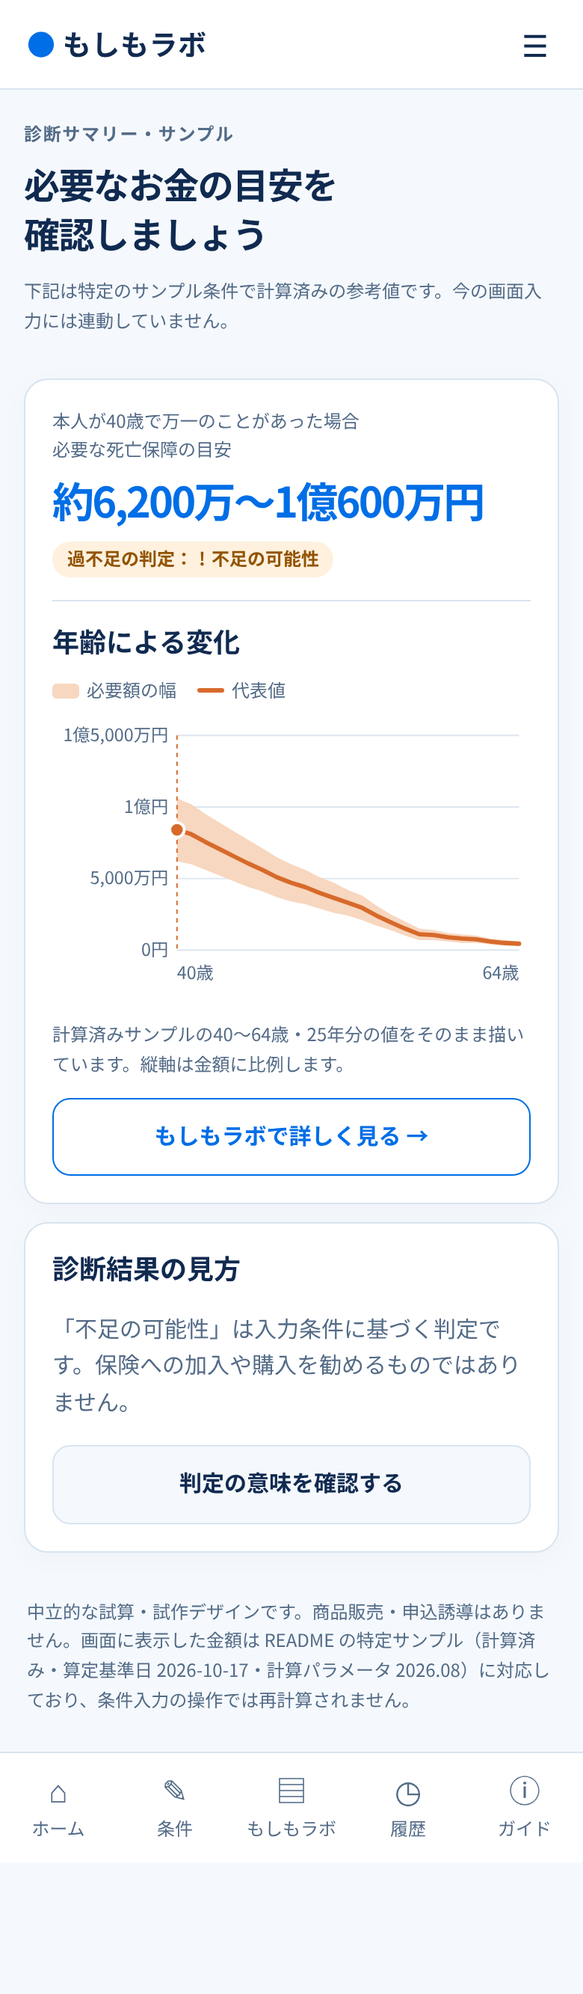
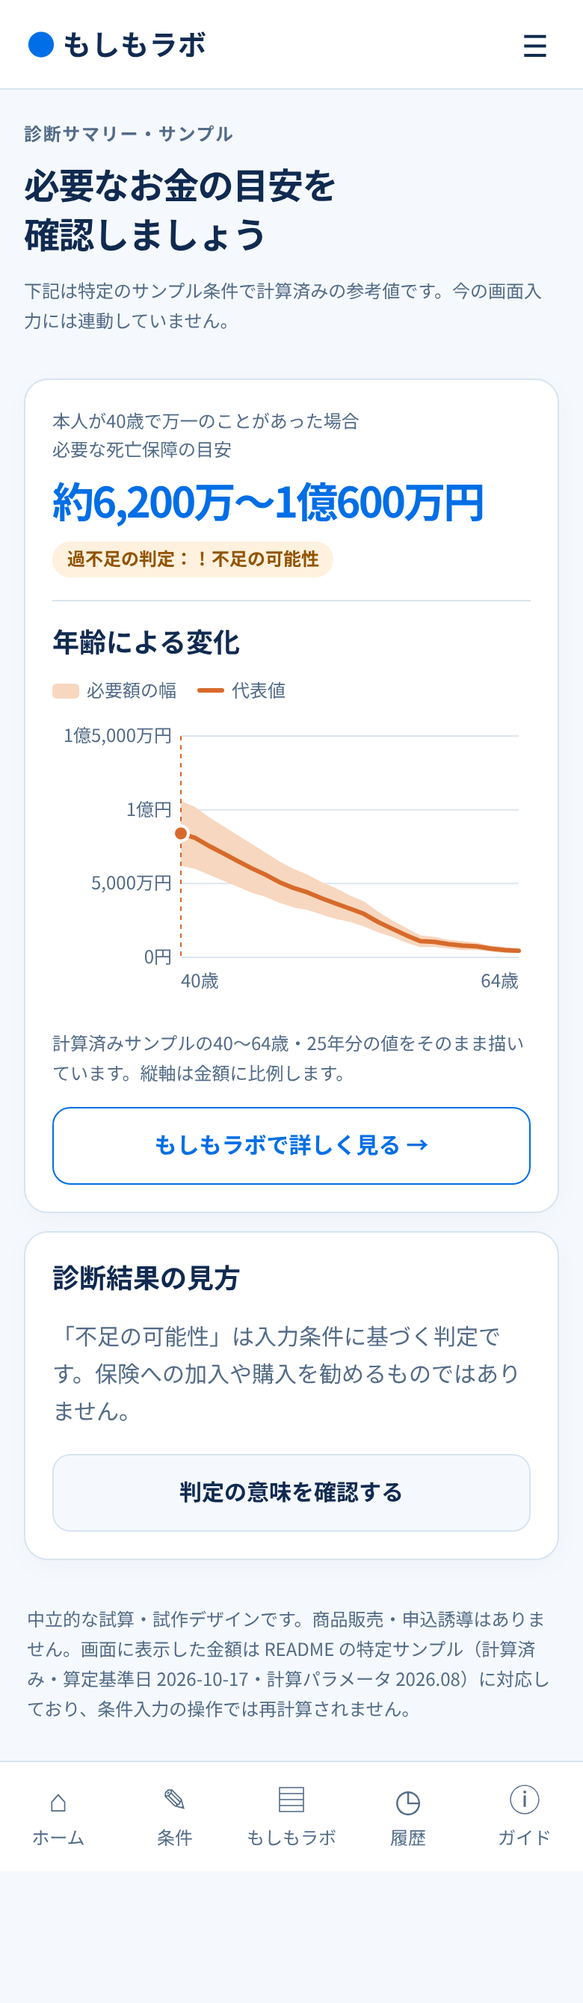
design: 320px でもグラフの目盛りを 12px にし、判断事項の回答を追記する
グラフを入れ物の実際の幅で描き、SVG を縮めない。幅が変わったら ResizeObserver で描き直す。

Claude-Session: https://claude.ai/code/session_01Fzmq9nUFPsWJRPivmmEeQQ

diff --git a/design/handoff/moshimo-lab-v2/index.html b/design/handoff/moshimo-lab-v2/index.html
@@ -32,12 +32,14 @@ function choose(el){el.parentElement.querySelectorAll('.choice').forEach(x=>{x.c
 const li=(t)=>`<li>${t}</li>`;
 function detail(id){const T=(t)=>document.getElementById(t);if(id==='death'){const p=SAMPLE.death.find(d=>d.age===currentAge);T('detailTitle').textContent='本人に万一のことがあった場合';T('detailLabel').textContent=`サンプル条件での試算結果（本人${p.age}歳・${p.year}年）`;T('detailAmount').innerHTML=rangeHtml(p.low,p.high);T('detailBadge').innerHTML=badge(p.verdict,'過不足の判定：');T('detailBody').innerHTML=`<p class="small">資産を差し引いた後の必要保障額です。病気や休職の費用とは算定対象が違うため、比べたり足したりしません。</p><div class="kv"><span>お子さんの年齢</span><b>${p.children.length?p.children.map(a=>a+'歳').join('・'):'お子さんなし'}</b></div><div class="kv"><span>いまの死亡保障</span><b>${SAMPLE.coverage?fmt(man(SAMPLE.coverage))+'円':'0円（サンプルの回答：加入なし）'}</b></div><details><summary>計算の前提を見る</summary><div class="details"><ul>${p.assumptions.map(li).join('')}${li('出典：'+SAMPLE.deathSource)}</ul></div></details>`}else if(id==='disability'){T('detailTitle').textContent=TITLE[id];T('detailLabel').textContent='必要額';T('detailAmount').textContent='未算定';T('detailBadge').innerHTML=badge('pending');T('detailBody').innerHTML=`<p class="small">障害年金を含めた算定は未対応で、必要額は出せません。0円という意味ではありません。</p><details><summary>算定の対応状況</summary><div class="details"><ul>${li('長期の収入減と本人の生活費が続くケースです。障害年金の受給条件を含めた算定に未対応です。')}</ul></div></details>`}else{const c=cases.find(x=>x.id===id),s=c.s;T('detailTitle').textContent=TITLE[id];T('detailLabel').textContent='サンプル条件での試算結果';T('detailAmount').textContent=c.value;T('detailBadge').innerHTML=badge(c.verdict,'貯蓄の判定：');T('detailBody').innerHTML=`<div class="kv"><span>働けない期間</span><b>${s.months}か月</b></div><div class="kv"><span>貯蓄の比較帯</span><b>${range(SAMPLE.savings.low,SAMPLE.savings.high)}</b></div><p class="small">上の金額は、医療費の自己負担・保険外の負担・収入の減少を、計算エンジンの前提で見積もった幅です。内訳の金額はエンジンが返していないため、ここでは作りません。</p><details><summary>計算の前提を見る（${s.assumptions.length}項目）</summary><div class="details"><ul>${s.assumptions.map(li).join('')}${li('出典：'+s.sources.join(' ／ '))}</ul></div></details>`}show('detail')}
 /* 金額に比例するグラフ。座標以外は元の試作の形・色を保つ */
-function makeChart(age){const pts=SAMPLE.death,W=330,H=196,L=86,R=322,T=12,B=160;const max=Math.ceil(Math.max(...pts.map(p=>p.high))/5e7)*5e7;const x=a=>L+(a-40)*(R-L)/24,y=v=>B-v*(B-T)/max;const ticks=[];for(let v=0;v<=max;v+=5e7)ticks.push(v);const up=pts.map(p=>`${x(p.age).toFixed(1)},${y(p.high).toFixed(1)}`),dn=pts.slice().reverse().map(p=>`${x(p.age).toFixed(1)},${y(p.low).toFixed(1)}`);const mid=pts.map((p,i)=>`${i?'L':'M'}${x(p.age).toFixed(1)} ${y(p.middle).toFixed(1)}`).join(' ');const cur=pts.find(p=>p.age===age),first=pts[0],last=pts[pts.length-1];return `<svg class="graph" role="img" aria-label="本人の年齢ごとの必要な死亡保障の幅。40歳で${range(first.low,first.high)}、64歳で${range(last.low,last.high)}。いま選んでいる${age}歳は${range(cur.low,cur.high)}。" viewBox="0 0 ${W} ${H}">${ticks.map(v=>`<line class="grid" x1="${L}" y1="${y(v)}" x2="${R}" y2="${y(v)}"/><text x="${L-6}" y="${y(v)+4}" text-anchor="end">${v?fmt(man(v))+'円':'0円'}</text>`).join('')}<polygon class="range" points="${up.concat(dn).join(' ')}"/><path class="curve" d="${mid}"/><line class="guide-line" x1="${x(age)}" y1="${T}" x2="${x(age)}" y2="${B}"/><circle class="dot" cx="${x(age)}" cy="${y(cur.middle)}" r="5"/><text x="${L}" y="${B+20}" text-anchor="start">40歳</text><text x="${R}" y="${B+20}" text-anchor="end">64歳</text>${age!==40&&age!==64?`<text x="${x(age)}" y="${B+20}" text-anchor="middle" style="font-weight:700;fill:#102A50">${age}歳</text>`:''}</svg>`}
+function makeChart(age,w){const pts=SAMPLE.death,W=Math.max(240,Math.round(w||330)),H=196,L=86,R=W-8,T=12,B=160;const max=Math.ceil(Math.max(...pts.map(p=>p.high))/5e7)*5e7;const x=a=>L+(a-40)*(R-L)/24,y=v=>B-v*(B-T)/max;const ticks=[];for(let v=0;v<=max;v+=5e7)ticks.push(v);const up=pts.map(p=>`${x(p.age).toFixed(1)},${y(p.high).toFixed(1)}`),dn=pts.slice().reverse().map(p=>`${x(p.age).toFixed(1)},${y(p.low).toFixed(1)}`);const mid=pts.map((p,i)=>`${i?'L':'M'}${x(p.age).toFixed(1)} ${y(p.middle).toFixed(1)}`).join(' ');const cur=pts.find(p=>p.age===age),first=pts[0],last=pts[pts.length-1];return `<svg class="graph" role="img" aria-label="本人の年齢ごとの必要な死亡保障の幅。40歳で${range(first.low,first.high)}、64歳で${range(last.low,last.high)}。いま選んでいる${age}歳は${range(cur.low,cur.high)}。" viewBox="0 0 ${W} ${H}">${ticks.map(v=>`<line class="grid" x1="${L}" y1="${y(v)}" x2="${R}" y2="${y(v)}"/><text x="${L-6}" y="${y(v)+4}" text-anchor="end">${v?fmt(man(v))+'円':'0円'}</text>`).join('')}<polygon class="range" points="${up.concat(dn).join(' ')}"/><path class="curve" d="${mid}"/><line class="guide-line" x1="${x(age)}" y1="${T}" x2="${x(age)}" y2="${B}"/><circle class="dot" cx="${x(age)}" cy="${y(cur.middle)}" r="5"/><text x="${L}" y="${B+20}" text-anchor="start">40歳</text><text x="${R}" y="${B+20}" text-anchor="end">64歳</text>${age!==40&&age!==64?`<text x="${x(age)}" y="${B+20}" text-anchor="middle" style="font-weight:700;fill:#102A50">${age}歳</text>`:''}</svg>`}
 let currentAge=40;
-function setAge(a){currentAge=a;const p=SAMPLE.death.find(d=>d.age===a);document.getElementById('ageout').textContent=a+'歳';document.getElementById('deathCaption').textContent=`本人の万一：${a}歳（${p.year}年）・計算済みサンプル`;document.getElementById('labAmount').innerHTML=rangeHtml(p.low,p.high);document.getElementById('labBadge').innerHTML=badge(p.verdict,'過不足の判定：');document.getElementById('labChart').innerHTML=makeChart(a);document.getElementById('ageSlider').setAttribute('aria-valuetext',`${a}歳、必要な死亡保障のめやす ${range(p.low,p.high)}`)}
-const p40=SAMPLE.death[0];document.getElementById('summaryAmount').innerHTML=rangeHtml(p40.low,p40.high);document.getElementById('summaryBadge').innerHTML=badge(p40.verdict,'過不足の判定：');document.getElementById('summaryChart').innerHTML=makeChart(40);
+function setAge(a){currentAge=a;const p=SAMPLE.death.find(d=>d.age===a);document.getElementById('ageout').textContent=a+'歳';document.getElementById('deathCaption').textContent=`本人の万一：${a}歳（${p.year}年）・計算済みサンプル`;document.getElementById('labAmount').innerHTML=rangeHtml(p.low,p.high);document.getElementById('labBadge').innerHTML=badge(p.verdict,'過不足の判定：');document.getElementById('labChart').innerHTML=makeChart(a,document.getElementById('labChart').clientWidth);document.getElementById('ageSlider').setAttribute('aria-valuetext',`${a}歳、必要な死亡保障のめやす ${range(p.low,p.high)}`)}
+const p40=SAMPLE.death[0];document.getElementById('summaryAmount').innerHTML=rangeHtml(p40.low,p40.high);document.getElementById('summaryBadge').innerHTML=badge(p40.verdict,'過不足の判定：');document.getElementById('summaryChart').innerHTML=makeChart(40,document.getElementById('summaryChart').clientWidth);
 document.getElementById('ageTable').innerHTML=SAMPLE.death.map(p=>`<tr><td>${p.age}歳 / ${p.year}年</td><td>${range(p.low,p.high)}</td></tr>`).join('');
 ['reducible','uncertain','pending','shortage'].forEach(v=>document.getElementById('g-'+v).innerHTML=badge(v));
 document.getElementById('footMeta').textContent=`算定基準日 ${SAMPLE.baseDate}・計算パラメータ ${SAMPLE.version}`;
 setAge(40);
+// 画面の切り替えや幅の変化で描き直す（非表示の画面は幅 0 なので、表示されたときに描く）
+if('ResizeObserver' in window){const ro=new ResizeObserver(es=>{for(const e of es){const w=Math.round(e.contentRect.width);if(!w||e.target.dataset.w==w)continue;e.target.dataset.w=w;e.target.innerHTML=makeChart(e.target.id==='labChart'?currentAge:40,w)}});['labChart','summaryChart'].forEach(id=>ro.observe(document.getElementById(id)))}
 </script></body></html>

diff --git a/design/handoff/moshimo-lab-v2/prototype/index.html b/design/handoff/moshimo-lab-v2/prototype/index.html
@@ -32,12 +32,14 @@ function choose(el){el.parentElement.querySelectorAll('.choice').forEach(x=>{x.c
 const li=(t)=>`<li>${t}</li>`;
 function detail(id){const T=(t)=>document.getElementById(t);if(id==='death'){const p=SAMPLE.death.find(d=>d.age===currentAge);T('detailTitle').textContent='本人に万一のことがあった場合';T('detailLabel').textContent=`サンプル条件での試算結果（本人${p.age}歳・${p.year}年）`;T('detailAmount').innerHTML=rangeHtml(p.low,p.high);T('detailBadge').innerHTML=badge(p.verdict,'過不足の判定：');T('detailBody').innerHTML=`<p class="small">資産を差し引いた後の必要保障額です。病気や休職の費用とは算定対象が違うため、比べたり足したりしません。</p><div class="kv"><span>お子さんの年齢</span><b>${p.children.length?p.children.map(a=>a+'歳').join('・'):'お子さんなし'}</b></div><div class="kv"><span>いまの死亡保障</span><b>${SAMPLE.coverage?fmt(man(SAMPLE.coverage))+'円':'0円（サンプルの回答：加入なし）'}</b></div><details><summary>計算の前提を見る</summary><div class="details"><ul>${p.assumptions.map(li).join('')}${li('出典：'+SAMPLE.deathSource)}</ul></div></details>`}else if(id==='disability'){T('detailTitle').textContent=TITLE[id];T('detailLabel').textContent='必要額';T('detailAmount').textContent='未算定';T('detailBadge').innerHTML=badge('pending');T('detailBody').innerHTML=`<p class="small">障害年金を含めた算定は未対応で、必要額は出せません。0円という意味ではありません。</p><details><summary>算定の対応状況</summary><div class="details"><ul>${li('長期の収入減と本人の生活費が続くケースです。障害年金の受給条件を含めた算定に未対応です。')}</ul></div></details>`}else{const c=cases.find(x=>x.id===id),s=c.s;T('detailTitle').textContent=TITLE[id];T('detailLabel').textContent='サンプル条件での試算結果';T('detailAmount').textContent=c.value;T('detailBadge').innerHTML=badge(c.verdict,'貯蓄の判定：');T('detailBody').innerHTML=`<div class="kv"><span>働けない期間</span><b>${s.months}か月</b></div><div class="kv"><span>貯蓄の比較帯</span><b>${range(SAMPLE.savings.low,SAMPLE.savings.high)}</b></div><p class="small">上の金額は、医療費の自己負担・保険外の負担・収入の減少を、計算エンジンの前提で見積もった幅です。内訳の金額はエンジンが返していないため、ここでは作りません。</p><details><summary>計算の前提を見る（${s.assumptions.length}項目）</summary><div class="details"><ul>${s.assumptions.map(li).join('')}${li('出典：'+s.sources.join(' ／ '))}</ul></div></details>`}show('detail')}
 /* 金額に比例するグラフ。座標以外は元の試作の形・色を保つ */
-function makeChart(age){const pts=SAMPLE.death,W=330,H=196,L=86,R=322,T=12,B=160;const max=Math.ceil(Math.max(...pts.map(p=>p.high))/5e7)*5e7;const x=a=>L+(a-40)*(R-L)/24,y=v=>B-v*(B-T)/max;const ticks=[];for(let v=0;v<=max;v+=5e7)ticks.push(v);const up=pts.map(p=>`${x(p.age).toFixed(1)},${y(p.high).toFixed(1)}`),dn=pts.slice().reverse().map(p=>`${x(p.age).toFixed(1)},${y(p.low).toFixed(1)}`);const mid=pts.map((p,i)=>`${i?'L':'M'}${x(p.age).toFixed(1)} ${y(p.middle).toFixed(1)}`).join(' ');const cur=pts.find(p=>p.age===age),first=pts[0],last=pts[pts.length-1];return `<svg class="graph" role="img" aria-label="本人の年齢ごとの必要な死亡保障の幅。40歳で${range(first.low,first.high)}、64歳で${range(last.low,last.high)}。いま選んでいる${age}歳は${range(cur.low,cur.high)}。" viewBox="0 0 ${W} ${H}">${ticks.map(v=>`<line class="grid" x1="${L}" y1="${y(v)}" x2="${R}" y2="${y(v)}"/><text x="${L-6}" y="${y(v)+4}" text-anchor="end">${v?fmt(man(v))+'円':'0円'}</text>`).join('')}<polygon class="range" points="${up.concat(dn).join(' ')}"/><path class="curve" d="${mid}"/><line class="guide-line" x1="${x(age)}" y1="${T}" x2="${x(age)}" y2="${B}"/><circle class="dot" cx="${x(age)}" cy="${y(cur.middle)}" r="5"/><text x="${L}" y="${B+20}" text-anchor="start">40歳</text><text x="${R}" y="${B+20}" text-anchor="end">64歳</text>${age!==40&&age!==64?`<text x="${x(age)}" y="${B+20}" text-anchor="middle" style="font-weight:700;fill:#102A50">${age}歳</text>`:''}</svg>`}
+function makeChart(age,w){const pts=SAMPLE.death,W=Math.max(240,Math.round(w||330)),H=196,L=86,R=W-8,T=12,B=160;const max=Math.ceil(Math.max(...pts.map(p=>p.high))/5e7)*5e7;const x=a=>L+(a-40)*(R-L)/24,y=v=>B-v*(B-T)/max;const ticks=[];for(let v=0;v<=max;v+=5e7)ticks.push(v);const up=pts.map(p=>`${x(p.age).toFixed(1)},${y(p.high).toFixed(1)}`),dn=pts.slice().reverse().map(p=>`${x(p.age).toFixed(1)},${y(p.low).toFixed(1)}`);const mid=pts.map((p,i)=>`${i?'L':'M'}${x(p.age).toFixed(1)} ${y(p.middle).toFixed(1)}`).join(' ');const cur=pts.find(p=>p.age===age),first=pts[0],last=pts[pts.length-1];return `<svg class="graph" role="img" aria-label="本人の年齢ごとの必要な死亡保障の幅。40歳で${range(first.low,first.high)}、64歳で${range(last.low,last.high)}。いま選んでいる${age}歳は${range(cur.low,cur.high)}。" viewBox="0 0 ${W} ${H}">${ticks.map(v=>`<line class="grid" x1="${L}" y1="${y(v)}" x2="${R}" y2="${y(v)}"/><text x="${L-6}" y="${y(v)+4}" text-anchor="end">${v?fmt(man(v))+'円':'0円'}</text>`).join('')}<polygon class="range" points="${up.concat(dn).join(' ')}"/><path class="curve" d="${mid}"/><line class="guide-line" x1="${x(age)}" y1="${T}" x2="${x(age)}" y2="${B}"/><circle class="dot" cx="${x(age)}" cy="${y(cur.middle)}" r="5"/><text x="${L}" y="${B+20}" text-anchor="start">40歳</text><text x="${R}" y="${B+20}" text-anchor="end">64歳</text>${age!==40&&age!==64?`<text x="${x(age)}" y="${B+20}" text-anchor="middle" style="font-weight:700;fill:#102A50">${age}歳</text>`:''}</svg>`}
 let currentAge=40;
-function setAge(a){currentAge=a;const p=SAMPLE.death.find(d=>d.age===a);document.getElementById('ageout').textContent=a+'歳';document.getElementById('deathCaption').textContent=`本人の万一：${a}歳（${p.year}年）・計算済みサンプル`;document.getElementById('labAmount').innerHTML=rangeHtml(p.low,p.high);document.getElementById('labBadge').innerHTML=badge(p.verdict,'過不足の判定：');document.getElementById('labChart').innerHTML=makeChart(a);document.getElementById('ageSlider').setAttribute('aria-valuetext',`${a}歳、必要な死亡保障のめやす ${range(p.low,p.high)}`)}
-const p40=SAMPLE.death[0];document.getElementById('summaryAmount').innerHTML=rangeHtml(p40.low,p40.high);document.getElementById('summaryBadge').innerHTML=badge(p40.verdict,'過不足の判定：');document.getElementById('summaryChart').innerHTML=makeChart(40);
+function setAge(a){currentAge=a;const p=SAMPLE.death.find(d=>d.age===a);document.getElementById('ageout').textContent=a+'歳';document.getElementById('deathCaption').textContent=`本人の万一：${a}歳（${p.year}年）・計算済みサンプル`;document.getElementById('labAmount').innerHTML=rangeHtml(p.low,p.high);document.getElementById('labBadge').innerHTML=badge(p.verdict,'過不足の判定：');document.getElementById('labChart').innerHTML=makeChart(a,document.getElementById('labChart').clientWidth);document.getElementById('ageSlider').setAttribute('aria-valuetext',`${a}歳、必要な死亡保障のめやす ${range(p.low,p.high)}`)}
+const p40=SAMPLE.death[0];document.getElementById('summaryAmount').innerHTML=rangeHtml(p40.low,p40.high);document.getElementById('summaryBadge').innerHTML=badge(p40.verdict,'過不足の判定：');document.getElementById('summaryChart').innerHTML=makeChart(40,document.getElementById('summaryChart').clientWidth);
 document.getElementById('ageTable').innerHTML=SAMPLE.death.map(p=>`<tr><td>${p.age}歳 / ${p.year}年</td><td>${range(p.low,p.high)}</td></tr>`).join('');
 ['reducible','uncertain','pending','shortage'].forEach(v=>document.getElementById('g-'+v).innerHTML=badge(v));
 document.getElementById('footMeta').textContent=`算定基準日 ${SAMPLE.baseDate}・計算パラメータ ${SAMPLE.version}`;
 setAge(40);
+// 画面の切り替えや幅の変化で描き直す（非表示の画面は幅 0 なので、表示されたときに描く）
+if('ResizeObserver' in window){const ro=new ResizeObserver(es=>{for(const e of es){const w=Math.round(e.contentRect.width);if(!w||e.target.dataset.w==w)continue;e.target.dataset.w=w;e.target.innerHTML=makeChart(e.target.id==='labChart'?currentAge:40,w)}});['labChart','summaryChart'].forEach(id=>ro.observe(document.getElementById(id)))}
 </script></body></html>

diff --git a/design/handoff/moshimo-lab-v2/tools/prototype.template.html b/design/handoff/moshimo-lab-v2/tools/prototype.template.html
@@ -32,12 +32,14 @@ function choose(el){el.parentElement.querySelectorAll('.choice').forEach(x=>{x.c
 const li=(t)=>`<li>${t}</li>`;
 function detail(id){const T=(t)=>document.getElementById(t);if(id==='death'){const p=SAMPLE.death.find(d=>d.age===currentAge);T('detailTitle').textContent='本人に万一のことがあった場合';T('detailLabel').textContent=`サンプル条件での試算結果（本人${p.age}歳・${p.year}年）`;T('detailAmount').innerHTML=rangeHtml(p.low,p.high);T('detailBadge').innerHTML=badge(p.verdict,'過不足の判定：');T('detailBody').innerHTML=`<p class="small">資産を差し引いた後の必要保障額です。病気や休職の費用とは算定対象が違うため、比べたり足したりしません。</p><div class="kv"><span>お子さんの年齢</span><b>${p.children.length?p.children.map(a=>a+'歳').join('・'):'お子さんなし'}</b></div><div class="kv"><span>いまの死亡保障</span><b>${SAMPLE.coverage?fmt(man(SAMPLE.coverage))+'円':'0円（サンプルの回答：加入なし）'}</b></div><details><summary>計算の前提を見る</summary><div class="details"><ul>${p.assumptions.map(li).join('')}${li('出典：'+SAMPLE.deathSource)}</ul></div></details>`}else if(id==='disability'){T('detailTitle').textContent=TITLE[id];T('detailLabel').textContent='必要額';T('detailAmount').textContent='未算定';T('detailBadge').innerHTML=badge('pending');T('detailBody').innerHTML=`<p class="small">障害年金を含めた算定は未対応で、必要額は出せません。0円という意味ではありません。</p><details><summary>算定の対応状況</summary><div class="details"><ul>${li('長期の収入減と本人の生活費が続くケースです。障害年金の受給条件を含めた算定に未対応です。')}</ul></div></details>`}else{const c=cases.find(x=>x.id===id),s=c.s;T('detailTitle').textContent=TITLE[id];T('detailLabel').textContent='サンプル条件での試算結果';T('detailAmount').textContent=c.value;T('detailBadge').innerHTML=badge(c.verdict,'貯蓄の判定：');T('detailBody').innerHTML=`<div class="kv"><span>働けない期間</span><b>${s.months}か月</b></div><div class="kv"><span>貯蓄の比較帯</span><b>${range(SAMPLE.savings.low,SAMPLE.savings.high)}</b></div><p class="small">上の金額は、医療費の自己負担・保険外の負担・収入の減少を、計算エンジンの前提で見積もった幅です。内訳の金額はエンジンが返していないため、ここでは作りません。</p><details><summary>計算の前提を見る（${s.assumptions.length}項目）</summary><div class="details"><ul>${s.assumptions.map(li).join('')}${li('出典：'+s.sources.join(' ／ '))}</ul></div></details>`}show('detail')}
 /* 金額に比例するグラフ。座標以外は元の試作の形・色を保つ */
-function makeChart(age){const pts=SAMPLE.death,W=330,H=196,L=86,R=322,T=12,B=160;const max=Math.ceil(Math.max(...pts.map(p=>p.high))/5e7)*5e7;const x=a=>L+(a-40)*(R-L)/24,y=v=>B-v*(B-T)/max;const ticks=[];for(let v=0;v<=max;v+=5e7)ticks.push(v);const up=pts.map(p=>`${x(p.age).toFixed(1)},${y(p.high).toFixed(1)}`),dn=pts.slice().reverse().map(p=>`${x(p.age).toFixed(1)},${y(p.low).toFixed(1)}`);const mid=pts.map((p,i)=>`${i?'L':'M'}${x(p.age).toFixed(1)} ${y(p.middle).toFixed(1)}`).join(' ');const cur=pts.find(p=>p.age===age),first=pts[0],last=pts[pts.length-1];return `<svg class="graph" role="img" aria-label="本人の年齢ごとの必要な死亡保障の幅。40歳で${range(first.low,first.high)}、64歳で${range(last.low,last.high)}。いま選んでいる${age}歳は${range(cur.low,cur.high)}。" viewBox="0 0 ${W} ${H}">${ticks.map(v=>`<line class="grid" x1="${L}" y1="${y(v)}" x2="${R}" y2="${y(v)}"/><text x="${L-6}" y="${y(v)+4}" text-anchor="end">${v?fmt(man(v))+'円':'0円'}</text>`).join('')}<polygon class="range" points="${up.concat(dn).join(' ')}"/><path class="curve" d="${mid}"/><line class="guide-line" x1="${x(age)}" y1="${T}" x2="${x(age)}" y2="${B}"/><circle class="dot" cx="${x(age)}" cy="${y(cur.middle)}" r="5"/><text x="${L}" y="${B+20}" text-anchor="start">40歳</text><text x="${R}" y="${B+20}" text-anchor="end">64歳</text>${age!==40&&age!==64?`<text x="${x(age)}" y="${B+20}" text-anchor="middle" style="font-weight:700;fill:#102A50">${age}歳</text>`:''}</svg>`}
+function makeChart(age,w){const pts=SAMPLE.death,W=Math.max(240,Math.round(w||330)),H=196,L=86,R=W-8,T=12,B=160;const max=Math.ceil(Math.max(...pts.map(p=>p.high))/5e7)*5e7;const x=a=>L+(a-40)*(R-L)/24,y=v=>B-v*(B-T)/max;const ticks=[];for(let v=0;v<=max;v+=5e7)ticks.push(v);const up=pts.map(p=>`${x(p.age).toFixed(1)},${y(p.high).toFixed(1)}`),dn=pts.slice().reverse().map(p=>`${x(p.age).toFixed(1)},${y(p.low).toFixed(1)}`);const mid=pts.map((p,i)=>`${i?'L':'M'}${x(p.age).toFixed(1)} ${y(p.middle).toFixed(1)}`).join(' ');const cur=pts.find(p=>p.age===age),first=pts[0],last=pts[pts.length-1];return `<svg class="graph" role="img" aria-label="本人の年齢ごとの必要な死亡保障の幅。40歳で${range(first.low,first.high)}、64歳で${range(last.low,last.high)}。いま選んでいる${age}歳は${range(cur.low,cur.high)}。" viewBox="0 0 ${W} ${H}">${ticks.map(v=>`<line class="grid" x1="${L}" y1="${y(v)}" x2="${R}" y2="${y(v)}"/><text x="${L-6}" y="${y(v)+4}" text-anchor="end">${v?fmt(man(v))+'円':'0円'}</text>`).join('')}<polygon class="range" points="${up.concat(dn).join(' ')}"/><path class="curve" d="${mid}"/><line class="guide-line" x1="${x(age)}" y1="${T}" x2="${x(age)}" y2="${B}"/><circle class="dot" cx="${x(age)}" cy="${y(cur.middle)}" r="5"/><text x="${L}" y="${B+20}" text-anchor="start">40歳</text><text x="${R}" y="${B+20}" text-anchor="end">64歳</text>${age!==40&&age!==64?`<text x="${x(age)}" y="${B+20}" text-anchor="middle" style="font-weight:700;fill:#102A50">${age}歳</text>`:''}</svg>`}
 let currentAge=40;
-function setAge(a){currentAge=a;const p=SAMPLE.death.find(d=>d.age===a);document.getElementById('ageout').textContent=a+'歳';document.getElementById('deathCaption').textContent=`本人の万一：${a}歳（${p.year}年）・計算済みサンプル`;document.getElementById('labAmount').innerHTML=rangeHtml(p.low,p.high);document.getElementById('labBadge').innerHTML=badge(p.verdict,'過不足の判定：');document.getElementById('labChart').innerHTML=makeChart(a);document.getElementById('ageSlider').setAttribute('aria-valuetext',`${a}歳、必要な死亡保障のめやす ${range(p.low,p.high)}`)}
-const p40=SAMPLE.death[0];document.getElementById('summaryAmount').innerHTML=rangeHtml(p40.low,p40.high);document.getElementById('summaryBadge').innerHTML=badge(p40.verdict,'過不足の判定：');document.getElementById('summaryChart').innerHTML=makeChart(40);
+function setAge(a){currentAge=a;const p=SAMPLE.death.find(d=>d.age===a);document.getElementById('ageout').textContent=a+'歳';document.getElementById('deathCaption').textContent=`本人の万一：${a}歳（${p.year}年）・計算済みサンプル`;document.getElementById('labAmount').innerHTML=rangeHtml(p.low,p.high);document.getElementById('labBadge').innerHTML=badge(p.verdict,'過不足の判定：');document.getElementById('labChart').innerHTML=makeChart(a,document.getElementById('labChart').clientWidth);document.getElementById('ageSlider').setAttribute('aria-valuetext',`${a}歳、必要な死亡保障のめやす ${range(p.low,p.high)}`)}
+const p40=SAMPLE.death[0];document.getElementById('summaryAmount').innerHTML=rangeHtml(p40.low,p40.high);document.getElementById('summaryBadge').innerHTML=badge(p40.verdict,'過不足の判定：');document.getElementById('summaryChart').innerHTML=makeChart(40,document.getElementById('summaryChart').clientWidth);
 document.getElementById('ageTable').innerHTML=SAMPLE.death.map(p=>`<tr><td>${p.age}歳 / ${p.year}年</td><td>${range(p.low,p.high)}</td></tr>`).join('');
 ['reducible','uncertain','pending','shortage'].forEach(v=>document.getElementById('g-'+v).innerHTML=badge(v));
 document.getElementById('footMeta').textContent=`算定基準日 ${SAMPLE.baseDate}・計算パラメータ ${SAMPLE.version}`;
 setAge(40);
+// 画面の切り替えや幅の変化で描き直す（非表示の画面は幅 0 なので、表示されたときに描く）
+if('ResizeObserver' in window){const ro=new ResizeObserver(es=>{for(const e of es){const w=Math.round(e.contentRect.width);if(!w||e.target.dataset.w==w)continue;e.target.dataset.w=w;e.target.innerHTML=makeChart(e.target.id==='labChart'?currentAge:40,w)}});['labChart','summaryChart'].forEach(id=>ro.observe(document.getElementById(id)))}
 </script></body></html>

diff --git a/design/handoff/moshimo-lab-v2/review/DESIGN_DECISIONS.md b/design/handoff/moshimo-lab-v2/review/DESIGN_DECISIONS.md
@@ -36,6 +36,9 @@
 | もしもラボの順番 | PR #2 を先にマージし、そのあと見た目を差し替える |
 | 家族の横長イラスト | 服が参照と違うが、このまま承認（ASSET_GAPS） |
 | D-8 履歴・比較 | 保存と個人情報の設計が終わるまで出さない（今回は決めない） |
+| D-1〜D-3 | 試作で直した3点（見出しは画像の下、金額に比例したグラフ、判定バッジのアイコンと黄＋黒のフォーカス）はこのまま |
+| 「不足」の言い方 | 病気・休職の「備え不足の可能性」と死亡の「不足の可能性」は2通りのまま残す（比べている物が違うため） |
+| 「不足」のオレンジの値 | 確認中（#925300 か #c74700） |
 
 ## アプリ全体に広げるときの論点（Naomi さんの「アプリ全体に反映したい」を受けて）
 
@@ -56,5 +59,5 @@
 
 - 現行 `/result`（診断結果）と、試作の「診断サマリー」「もしもラボ」の役割分担。いまの `/result` は4ステップの報告書で、試作のサマリーよりずっと情報が多い。サマリーを `/result` の冒頭にするのか、別画面にするのかを決める
 - 現行 PR #2（`feat/moshimo-lab`）の `/lab` は Airbnb 系の見た目で実装中。Fintech A の承認後に見た目を差し替える順番（PR #2 をマージしてから差し替えるか、PR #2 の中で替えるか）
-- 320px でのグラフ軸ラベル
+- ~~320px でのグラフ軸ラベル~~ → 直した（REVIEW_REPORT）
 - 病気・休職の「備え不足の可能性」と死亡の「不足の可能性」の言葉の違いを残すか

diff --git a/design/handoff/moshimo-lab-v2/review/REVIEW_REPORT.md b/design/handoff/moshimo-lab-v2/review/REVIEW_REPORT.md
@@ -56,7 +56,7 @@
 - 条件入力の「本人の年齢」：現行は生年（`sb=1986`）で聞いている。質問の設計は本実装で現行スキーマと照合する（D-7）
 - 「STEP 2 / 5」：STEP 1 の画面がない。条件入力は代表項目だけの試作なので、ステップ構成は本実装で決める
 - サマリーが死亡保障だけで、医療・休職の要約がない（D-5）
-- 320px ではグラフが縮むので、軸の文字が実寸で約10px になる。320px 用に軸ラベルを間引くかは本実装で決める
+- ~~320px ではグラフが縮むので、軸の文字が実寸で約10px になる~~ → 2026-10-17 直した。グラフを入れ物の実際の幅で描き、SVG を縮めないので、320px でも目盛りの字は 12px（描画は ResizeObserver で幅が変わるたびにやり直す）。本実装でも同じ作りにする
 - 「過不足の判定：! 不足の可能性」のようにコロンと ! が並ぶ。現行案 A と同じ書き方なので変えていない
 - 病気・休職で貯蓄が足りない場合のラベルは、現行 `Lab.tsx` では「! 備え不足の可能性」、死亡では「不足の可能性」。今回のサンプルには出てこないので、試作では死亡側の言葉だけを使っている
 - 実機（iOS Safari・Android Chrome）とスクリーンリーダーでの確認は未実施
